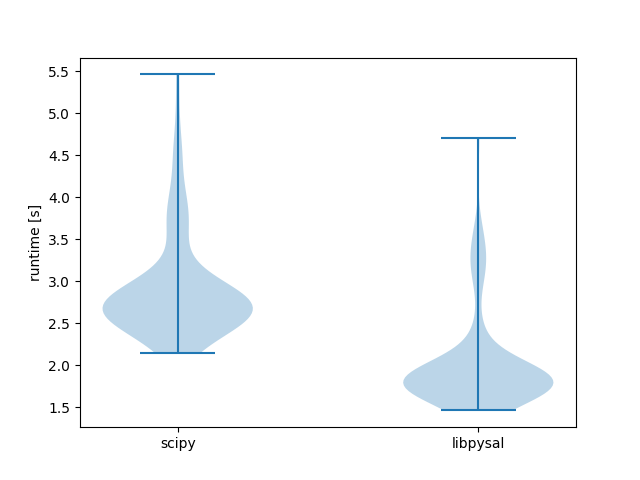
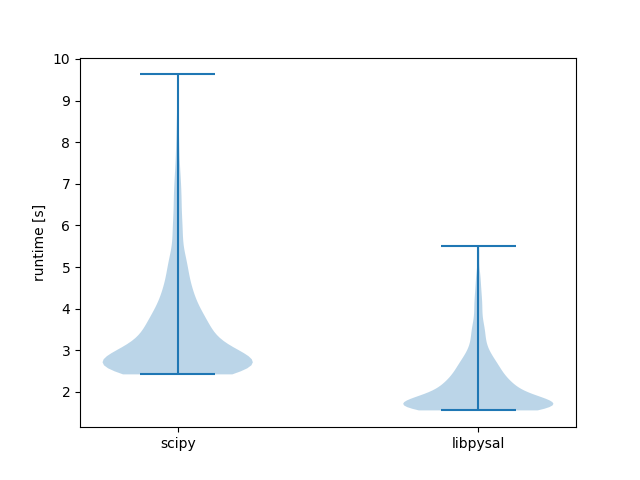
results for 1000 runs

diff --git a/learn/delaunay_benchmark/delaunay_implementations.py b/learn/delaunay_benchmark/delaunay_implementations.py
@@ -138,7 +138,7 @@ if __name__ == '__main__':
     map_img = read_map(map_fname)
     assert map_img.shape[0] == map_img.shape[1], "map must be square"
 
-    n_runs = 100
+    n_runs = 1000
     success_s_scipy = 0
     success_s_libpysal = 0
     times_scipy = []
@@ -197,7 +197,7 @@ if __name__ == '__main__':
     print("success rate scipy:", success_s_scipy / n_runs)
     print("success rate libpysal:", success_s_libpysal / n_runs)
     # success rate scipy: 1.0
-    # success rate libpysal: 0.99
+    # success rate libpysal: 0.988
 
     # show runtimes
     plt.figure()
